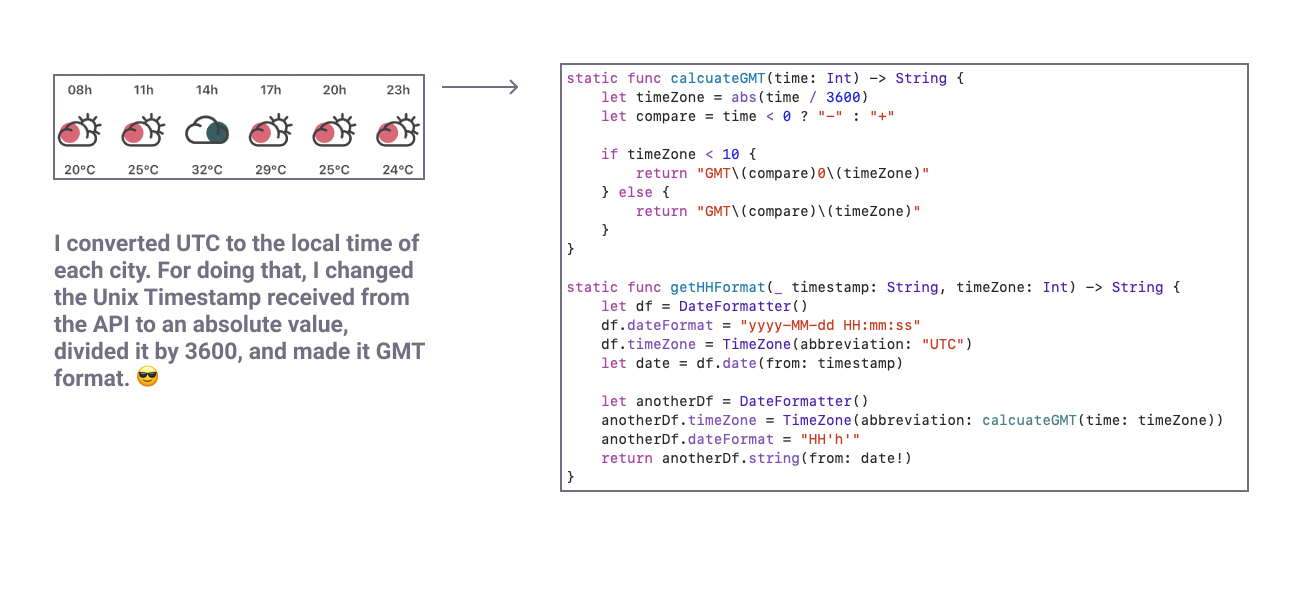
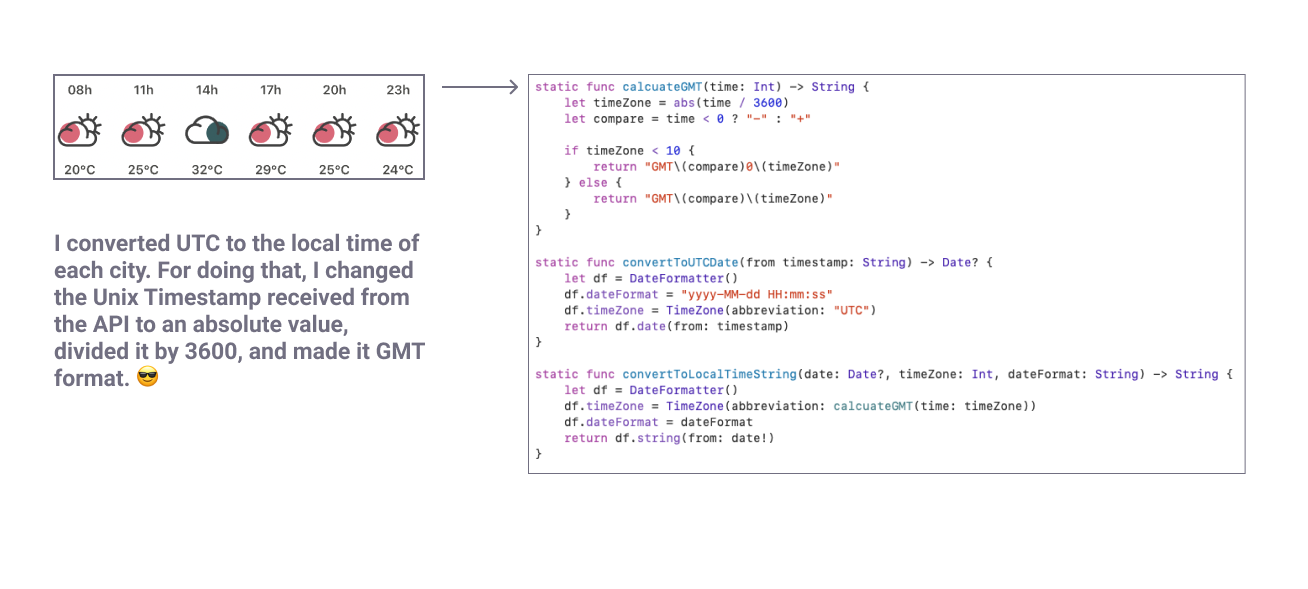
docs: Update README.md

diff --git a/Weather/Weather/Extensions/SwiftStandardLibrary/Date.swift b/Weather/Weather/Extensions/SwiftStandardLibrary/Date.swift
@@ -24,51 +24,37 @@ extension Date {
         }
     }
     
-    static func getddMMYYYYFormat(_ timestamp: String, timeZone: Int) -> String {
+    static func convertToUTCDate(from timestamp: String) -> Date? {
         let df = DateFormatter()
         df.dateFormat = "yyyy-MM-dd HH:mm:ss"
         df.timeZone = TimeZone(abbreviation: "UTC")
-        let date = df.date(from: timestamp)
-        
-        let anotherDf = DateFormatter()
-        anotherDf.timeZone = TimeZone(abbreviation: calcuateGMT(time: timeZone))
-        anotherDf.dateFormat = "dd/MM/YYYY"
-        return anotherDf.string(from: date!)
+        return df.date(from: timestamp)
     }
     
-    static func getddMMFormat(_ timestamp: String, timeZone: Int) -> String {
+    static func convertToLocalTimeString(date: Date?, timeZone: Int, dateFormat: String) -> String {
         let df = DateFormatter()
-        df.dateFormat = "yyyy-MM-dd HH:mm:ss"
-        df.timeZone = TimeZone(abbreviation: "UTC")
-        let date = df.date(from: timestamp)
-        
-        let anotherDf = DateFormatter()
-        anotherDf.timeZone = TimeZone(abbreviation: calcuateGMT(time: timeZone))
-        anotherDf.dateFormat = "dd/MM"
-        return anotherDf.string(from: date!)
+        df.timeZone = TimeZone(abbreviation: calcuateGMT(time: timeZone))
+        df.dateFormat = dateFormat
+        return df.string(from: date!)
     }
     
-    static func getHHFormat(_ timestamp: String, timeZone: Int) -> String {
-        let df = DateFormatter()
-        df.dateFormat = "yyyy-MM-dd HH:mm:ss"
-        df.timeZone = TimeZone(abbreviation: "UTC")
-        let date = df.date(from: timestamp)
-        
-        let anotherDf = DateFormatter()
-        anotherDf.timeZone = TimeZone(abbreviation: calcuateGMT(time: timeZone))
-        anotherDf.dateFormat = "HH'h'"
-        return anotherDf.string(from: date!)
+    static func getddMMYYYYFormat(timestamp: String, timeZone: Int) -> String {
+        let date = convertToUTCDate(from: timestamp)
+        return convertToLocalTimeString(date: date, timeZone: timeZone, dateFormat: "dd/MM/YYYY")
     }
     
-    static func getWeekDay(_ timestamp: String, timeZone: Int) -> String {
-        let df = DateFormatter()
-        df.dateFormat = "yyyy-MM-dd HH:mm:ss"
-        df.timeZone = TimeZone(abbreviation: "UTC")
-        let date = df.date(from: timestamp)
-        
-        let anotherDf = DateFormatter()
-        anotherDf.timeZone = TimeZone(abbreviation: calcuateGMT(time: timeZone))
-        anotherDf.dateFormat = "EEEE"
-        return anotherDf.string(from: date!)
+    static func getddMMFormat(timestamp: String, timeZone: Int) -> String {
+        let date = convertToUTCDate(from: timestamp)
+        return convertToLocalTimeString(date: date, timeZone: timeZone, dateFormat: "dd/MM")
+    }
+    
+    static func getHHFormat(timestamp: String, timeZone: Int) -> String {
+        let date = convertToUTCDate(from: timestamp)
+        return convertToLocalTimeString(date: date, timeZone: timeZone, dateFormat: "HH'h'")
+    }
+    
+    static func getWeekDay(timestamp: String, timeZone: Int) -> String {
+        let date = convertToUTCDate(from: timestamp)
+        return convertToLocalTimeString(date: date, timeZone: timeZone, dateFormat: "EEEE")
     }
 }

diff --git a/Weather/Weather/Modules/MainModule/ViewModels/WeatherDailyViewModel.swift b/Weather/Weather/Modules/MainModule/ViewModels/WeatherDailyViewModel.swift
@@ -35,14 +35,13 @@ struct WeatherDailyViewModel {
         var conditionIDArray = [String]()
         
         temporaryDailyDictionary.forEach { key, value in
-            let max = value.max { $0.tempMaxInt < $1.tempMaxInt }
-            let min = value.min { $0.tempMaxInt < $1.tempMaxInt }
-            guard let max = max else { return }
-            guard let min = min else { return }
+            let tempMax = value.max { $0.tempMaxInt < $1.tempMaxInt }
+            let tempMin = value.min { $0.tempMinInt < $1.tempMinInt }
+            guard let tempMax = tempMax, let tempMin = tempMin else { return }
             
-            minTempArray.append(min.tempMin)
-            maxTempArray.append(max.tempMax)
-            conditionIDArray.append(max.conditionImage)
+            maxTempArray.append(tempMax.tempMax)
+            minTempArray.append(tempMin.tempMin)
+            conditionIDArray.append(tempMax.conditionImage)
         }
         
         return WeatherDailyViewModel(temp_min: minTempArray, temp_max: maxTempArray, conditionImage: conditionIDArray, day: keysArray)

diff --git a/Weather/Weather/Modules/MainModule/ViewModels/WeatherViewModel.swift b/Weather/Weather/Modules/MainModule/ViewModels/WeatherViewModel.swift
@@ -74,10 +74,10 @@ struct WeatherViewModel {
     
     static func getViewModel(eachWeather: WeatherListResponse, response: WeatherResponse) -> WeatherViewModel {
         let timeZone = response.city.timezone
-        let date = Date.getddMMYYYYFormat(eachWeather.dtTxt, timeZone: timeZone)
-        let dateWithMonth = Date.getddMMFormat(eachWeather.dtTxt, timeZone: timeZone)
-        let hour = Date.getHHFormat(eachWeather.dtTxt, timeZone: timeZone)
-        let day = Date.getWeekDay(eachWeather.dtTxt, timeZone: timeZone)
+        let date = Date.getddMMYYYYFormat(timestamp: eachWeather.dtTxt, timeZone: timeZone)
+        let dateWithMonth = Date.getddMMFormat(timestamp: eachWeather.dtTxt, timeZone: timeZone)
+        let hour = Date.getHHFormat(timestamp: eachWeather.dtTxt, timeZone: timeZone)
+        let day = Date.getWeekDay(timestamp: eachWeather.dtTxt, timeZone: timeZone)
         let tempOriginal = "\(Int(eachWeather.main.temp))"
         let temp = "\(Int(eachWeather.main.temp))°C"
         let temp_min_int = (Int(eachWeather.main.tempMin))
